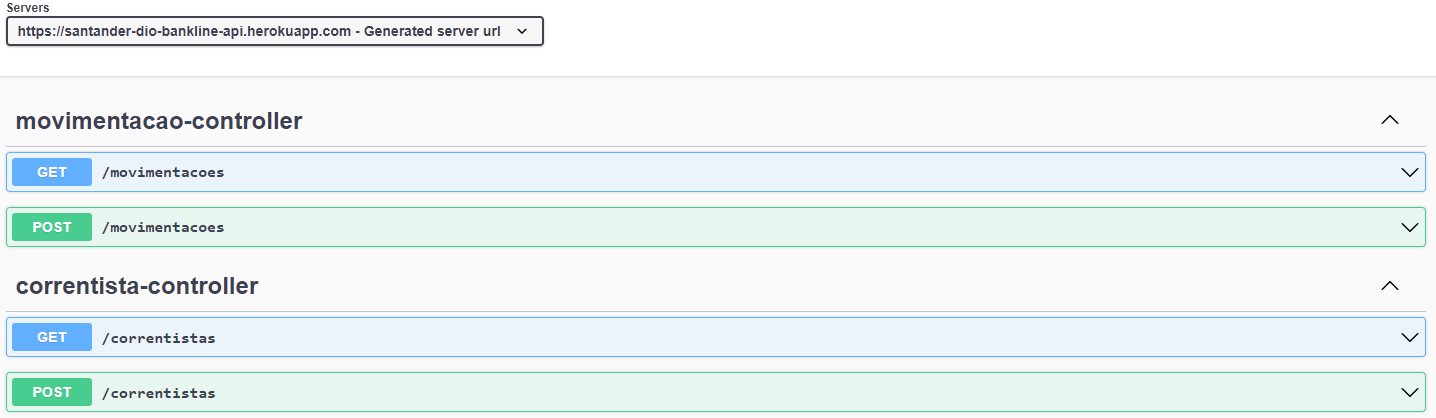
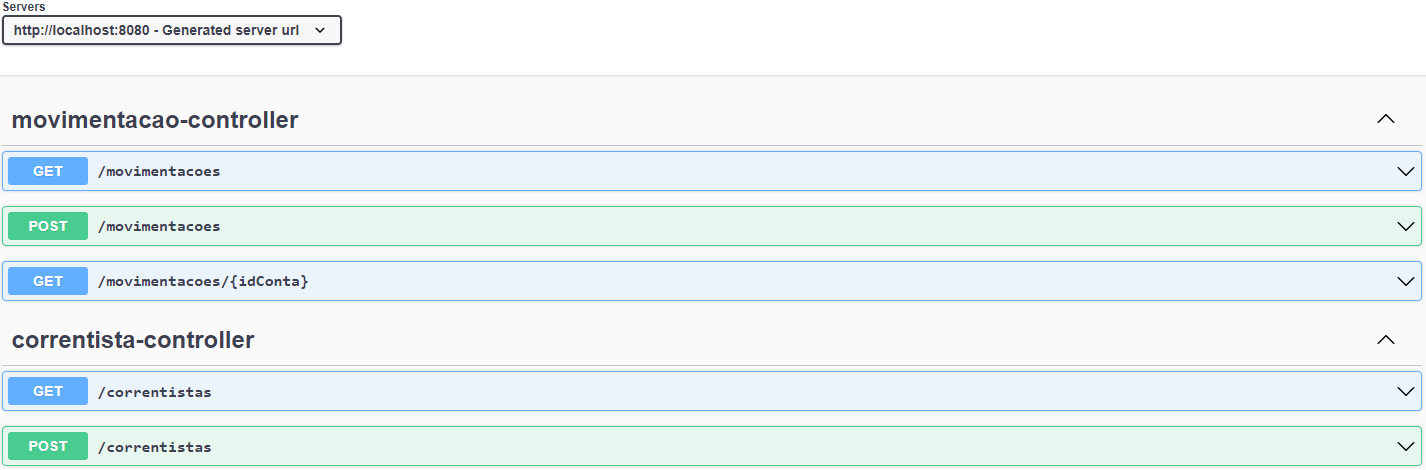
version 1.1

diff --git a/src/main/java/com/dio/santander/bankline/api/controller/MovimentacaoController.java b/src/main/java/com/dio/santander/bankline/api/controller/MovimentacaoController.java
@@ -4,6 +4,7 @@ import java.util.List;
 
 import org.springframework.beans.factory.annotation.Autowired;
 import org.springframework.web.bind.annotation.GetMapping;
+import org.springframework.web.bind.annotation.PathVariable;
 import org.springframework.web.bind.annotation.PostMapping;
 import org.springframework.web.bind.annotation.RequestBody;
 import org.springframework.web.bind.annotation.RequestMapping;
@@ -27,6 +28,11 @@ public class MovimentacaoController {
 	@GetMapping
 	public List<Movimentacao> findAll() {
 		return repository.findAll();
+	}
+
+	@GetMapping("/{idConta}")
+		public List<Movimentacao> findAll(@PathVariable("idConta") Integer idConta){
+			return repository.findByIdConta(idConta);
 	}
 
 	@PostMapping

diff --git a/src/main/java/com/dio/santander/bankline/api/config/WebConfig.java b/src/main/java/com/dio/santander/bankline/api/config/WebConfig.java
@@ -1,0 +1,16 @@
+package com.dio.santander.bankline.api.config;
+
+import org.springframework.context.annotation.Configuration;
+import org.springframework.web.servlet.config.annotation.CorsRegistry;
+import org.springframework.web.servlet.config.annotation.EnableWebMvc;
+import org.springframework.web.servlet.config.annotation.WebMvcConfigurer;
+
+@Configuration
+@EnableWebMvc
+public class WebConfig implements WebMvcConfigurer {
+
+    @Override
+    public void addCorsMappings(CorsRegistry registry) {
+        registry.addMapping("/**");
+    }
+}

diff --git a/src/main/java/com/dio/santander/bankline/api/model/Movimentacao.java b/src/main/java/com/dio/santander/bankline/api/model/Movimentacao.java
@@ -11,6 +11,8 @@ import javax.persistence.GenerationType;
 import javax.persistence.Id;
 import javax.persistence.Table;
 
+import com.fasterxml.jackson.annotation.JsonFormat;
+
 @Entity
 @Table(name= "tab_movimentacao")
 public class Movimentacao {
@@ -39,6 +41,7 @@ public class Movimentacao {
 	public void setId(Integer id) {
 		this.id = id;
 	}
+	@JsonFormat(pattern="dd-MM-yyyy HH:mm:ss")
 	public LocalDateTime getDataHora() {
 		return dataHora;
 	}

diff --git a/src/main/java/com/dio/santander/bankline/api/repository/MovimentacaoRepository.java b/src/main/java/com/dio/santander/bankline/api/repository/MovimentacaoRepository.java
@@ -1,9 +1,11 @@
 package com.dio.santander.bankline.api.repository;
 
+import java.util.List;
+
 import org.springframework.data.jpa.repository.JpaRepository;
 
 import com.dio.santander.bankline.api.model.Movimentacao;
 
 public interface MovimentacaoRepository extends JpaRepository<Movimentacao, Integer> {
-
+	public List<Movimentacao>findByIdConta(Integer idConta);
 }

diff --git a/README.md b/README.md
@@ -12,7 +12,7 @@
 </p>
 
 ## Objetivo 
-Abstrair o domínio bancário em uma AIP REST capas de cadastrar novos usuários e acompanhar suas movimentações financeiras.
+Abstrair o domínio bancário em uma API REST capaz de cadastrar novos usuários e acompanhar suas movimentações financeiras.
 
 </br>
 
@@ -43,8 +43,16 @@ Foram utilizadas as seguintes tecnologias:
 
 `POST /movimentacoes`: Salva no bancos de dados as movimentações realizadas pelos usuários.
 
+`GET /movimentacoes/{id}`: Retorna os dados das movimentações realizadas por um usuário de acordo com o id.
+
 `GET /correntistas`: Retorna os dados dos usuários cadastardos no banco de dados.
 
 `POST /correntistas`: Cadastra novos usuários no banco de dados.
 
+</br>
+
 <img src="./assets/img/Swagger-api.png" width="100%"/>
+
+### Segue abaixo link do projeto no Heroku
+
+https://santander-dio-bankline-api.herokuapp.com/swagger-ui/index.html
